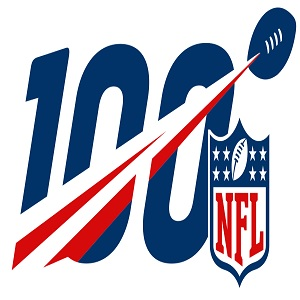
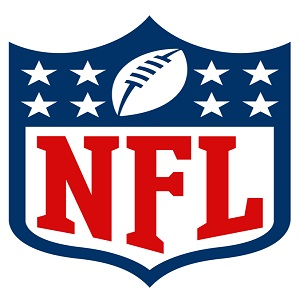
update images

diff --git a/index.html b/index.html
@@ -210,7 +210,7 @@
 
                 <div class="project shadow-large">
                     <div class="project-image">
-                        <img src="images/n.jpg" />
+                        <img src="images/nfl.jpg" />
                     </div>
                     <!-- End .project-image -->
                     <div class="project-info">
